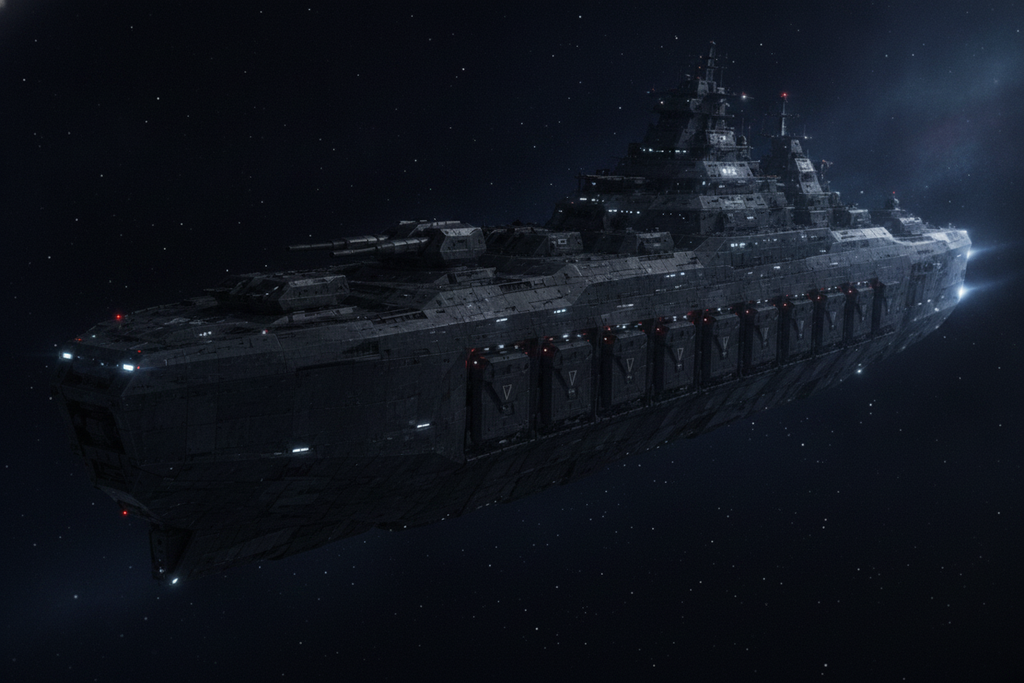
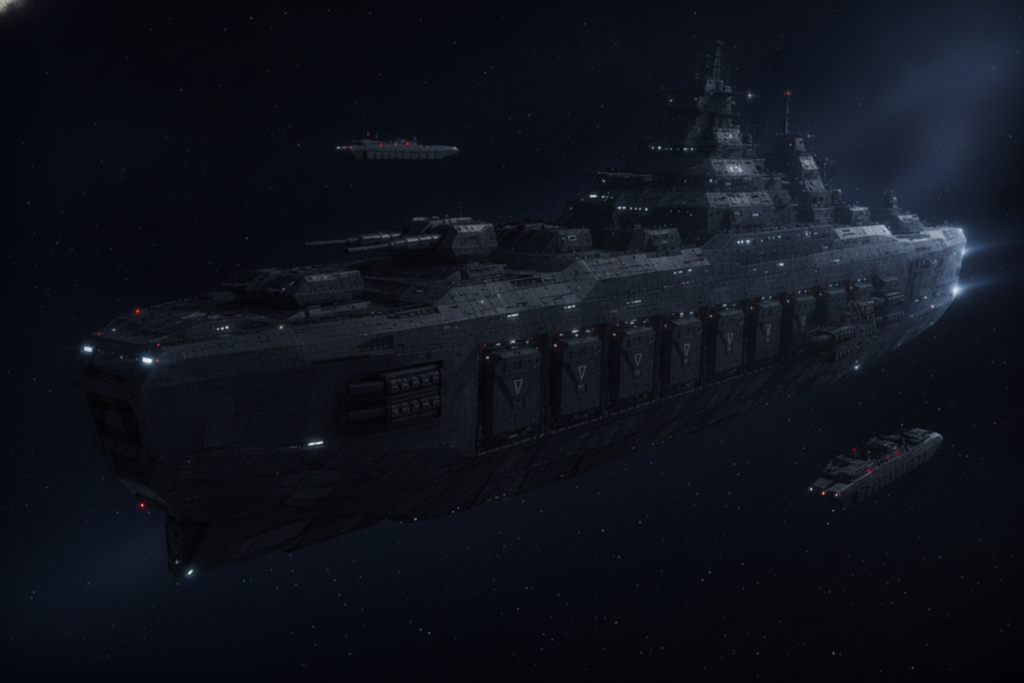
fix(skirmish): visible class names in builder rows, distinct imperial DN art
Codex review of #50: the imperial class name lived only in the row's
title attribute — invisible on touch, so both columns still looked
identical. Each row now shows the class name under the hull type
(royal names left, Doradan names right).

Also regenerated ship-dn-imperial: the old art was near-identical to
the royal dreadnought at card size; the new one matches the dark
red-lit imperial line (with escort destroyers for scale).

Claude-Session: https://claude.ai/code/session_01EQh57yTjT4Agj4J44pZgf7

diff --git a/src/main.ts b/src/main.ts
@@ -761,11 +761,13 @@ function showSkirmishBuilder(): void {
     const def = SHIP_CLASSES[cls]
     const nm = def ? shipClassName(def) : cls
     // plný název typu (Lehký křižník…) místo kódu; klepnutí otevře kartu třídy
-    // nepřátelský sloupec ukazuje imperiální jméno třídy (viz IMPERIAL_SURFACE)
+    // nepřátelský sloupec ukazuje imperiální jméno třídy (viz IMPERIAL_SURFACE);
+    // jméno třídy viditelně v řádku — tooltip na dotyku neexistuje
     const impNm = side === 'enemy' ? IMPERIAL_SURFACE[cls] : undefined
-    const tipNm = impNm ? (getLang() === 'en' ? impNm.nameEn : impNm.name) : nm
+    const rowNm = impNm ? (getLang() === 'en' ? impNm.nameEn : impNm.name) : nm
     return `<div class="sk-row">`
-      + `<button class="sk-name" data-clscard="${esc(cls)}" data-cardside="${side}" title="${esc(tipNm)} — ${esc(t('sk.detailTip'))}">${esc(t(`hull.${hull}`))}</button>`
+      + `<button class="sk-name" data-clscard="${esc(cls)}" data-cardside="${side}" title="${esc(rowNm)} — ${esc(t('sk.detailTip'))}">`
+      + `${esc(t(`hull.${hull}`))}<span class="sk-cls">${esc(rowNm)}</span></button>`
       + `<button class="sk-step" data-sk="dec" data-side="${side}" data-cls="${cls}">−</button>`
       + `<span class="sk-n" id="sk-${side}-${cls}">${cfg[side][cls] ?? 0}</span>`
       + `<button class="sk-step" data-sk="inc" data-side="${side}" data-cls="${cls}">+</button>`

diff --git a/index.html b/index.html
@@ -101,7 +101,10 @@
     /* název typu = tlačítko karty třídy (tečkované podtržení značí klik) */
     .sk-name { width: 130px; text-align: left; color: #9fd8a0; background: none; border: none; padding: 2px 0; font: inherit; cursor: pointer; text-decoration: underline dotted #4a6a4e; text-underline-offset: 3px; }
     .sk-name:hover { color: #d3f0d3; }
+    /* jméno třídy pod typem — viditelné i na dotyku (tooltip tam není) */
+    .sk-cls { display: block; font-size: 10px; color: #6fae74; text-decoration: none; }
     body.phone .sk-name { width: 104px; font-size: 11px; }
+    body.phone .sk-cls { font-size: 9px; }
     /* karta třídy lodi (vrství se nad stavbu bitvy) */
     .overlay.clscard { z-index: 35; }
     .clscard-img { width: 100%; max-width: 420px; border: 1px solid #2a5a2e; margin-bottom: 8px; }
